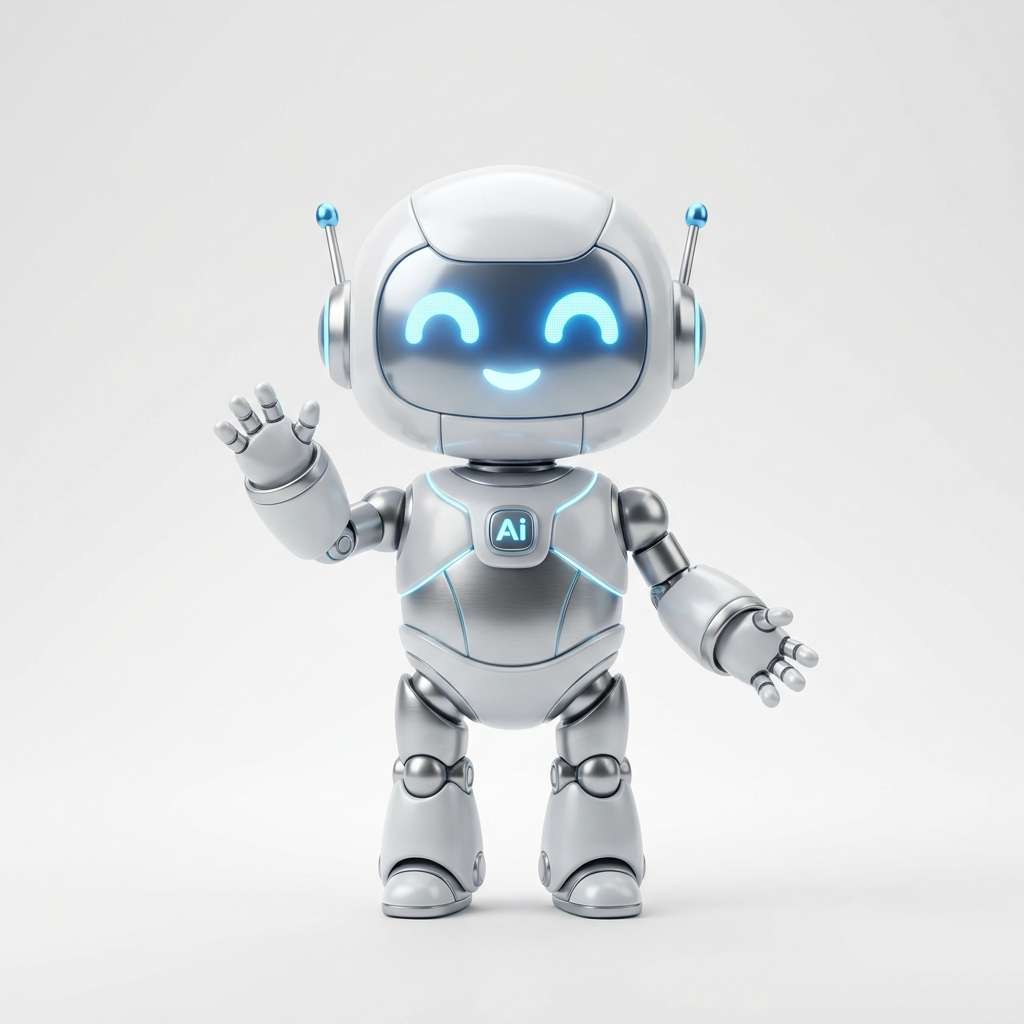
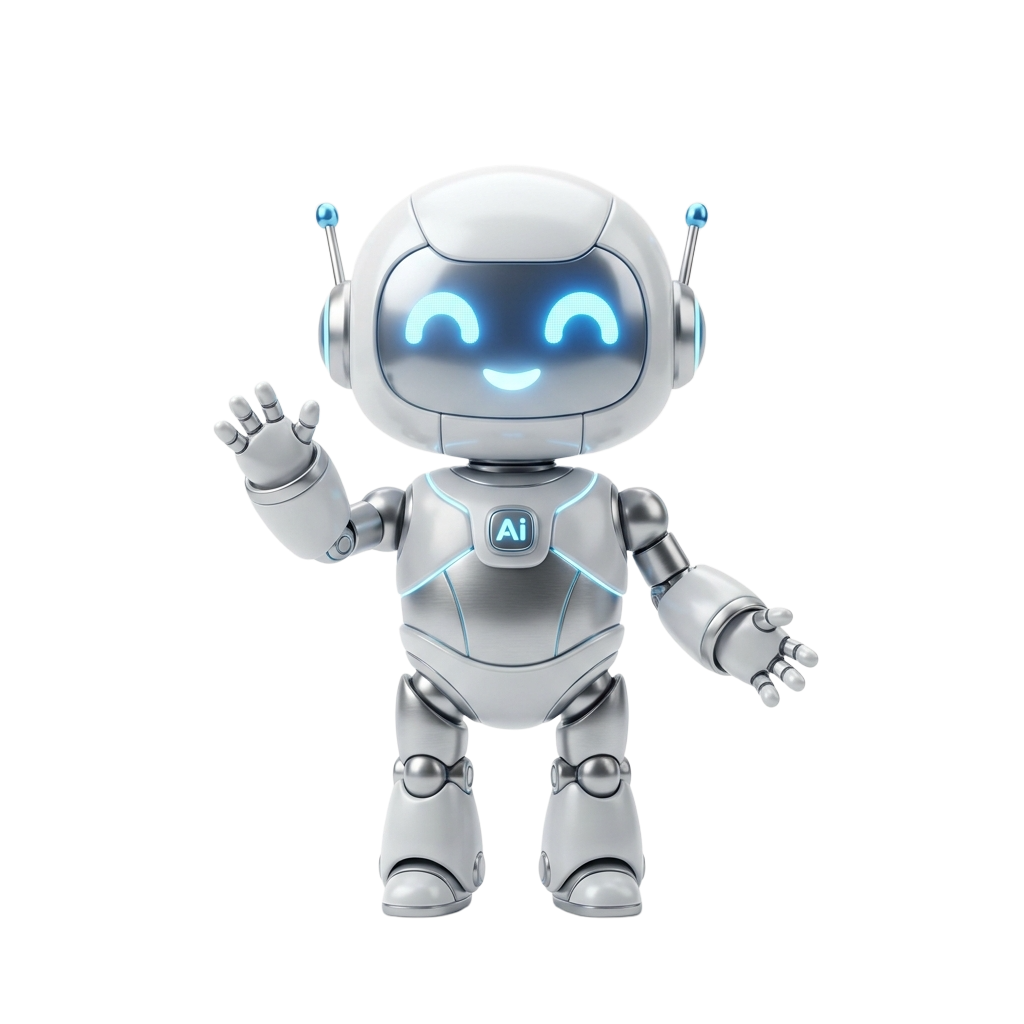
design: resize cute-robot-mascot PNG and balance CTA spacing in AI layout

Changed region(s): [[0.0, 0.0, 1.0, 0.5], [0.375, 0.8438, 1.0, 1.0]]

diff --git a/components/service/AiAutomationServiceLayout.tsx b/components/service/AiAutomationServiceLayout.tsx
@@ -554,31 +554,29 @@ export default function AiAutomationServiceLayout({
             {/* Column 3: Ready to Automate + Mascot (4/12 width) */}
             <div className="lg:col-span-4 flex flex-col justify-start">
               
-              <div className="bg-white border border-slate-200/80 rounded-[2rem] p-6 shadow-sm flex flex-col justify-between flex-grow min-h-[300px] h-full">
+              <div className="bg-white border border-slate-200/80 rounded-[2rem] p-6 shadow-sm flex flex-col justify-between items-center text-center flex-grow min-h-[380px] h-full">
                 
-                {/* Robot Illustration and Header */}
-                <div className="flex flex-col items-center text-center font-sans">
-                  
-                  {/* High-fidelity 3D Robot Mascot PNG */}
-                  <div className="w-36 h-36 relative my-2 flex items-center justify-center overflow-hidden">
-                    <img 
-                      src="/images/cute-robot-mascot.png" 
-                      alt="Clever Crow AI Robot Mascot" 
-                      className="w-full h-full object-contain select-none pointer-events-none"
-                    />
-                  </div>
+                {/* High-fidelity 3D Robot Mascot PNG */}
+                <div className="w-52 h-52 relative flex items-center justify-center overflow-hidden">
+                  <img 
+                    src="/images/cute-robot-mascot.png" 
+                    alt="Clever Crow AI Robot Mascot" 
+                    className="w-full h-full object-contain select-none pointer-events-none"
+                  />
+                </div>
 
-                  <h3 className="text-base md:text-lg font-black text-slate-900 tracking-tight leading-tight font-sans mt-2">
+                {/* Text Block */}
+                <div className="flex flex-col items-center mt-2">
+                  <h3 className="text-base md:text-lg font-black text-slate-900 tracking-tight leading-tight font-sans">
                     Ready to Automate <br />Your Business?
                   </h3>
                   
                   <p className="mt-4 text-[11px] font-bold text-slate-500 leading-relaxed max-w-[240px]">
                     Book a free consultation and see how AI automation can save time, reduce costs and increase conversions.
                   </p>
-
                 </div>
 
-                <div className="mt-6 font-sans">
+                <div className="w-full mt-6 font-sans">
                   <a
                     href="#contact-form"
                     className="group flex items-center justify-center gap-2 rounded-2xl bg-amber-500 px-5 py-3.5 text-xs font-black uppercase tracking-wider text-slate-900 shadow-md shadow-amber-500/10 hover:bg-amber-600 hover:scale-[1.01] active:scale-95 transition-all cursor-pointer w-full"